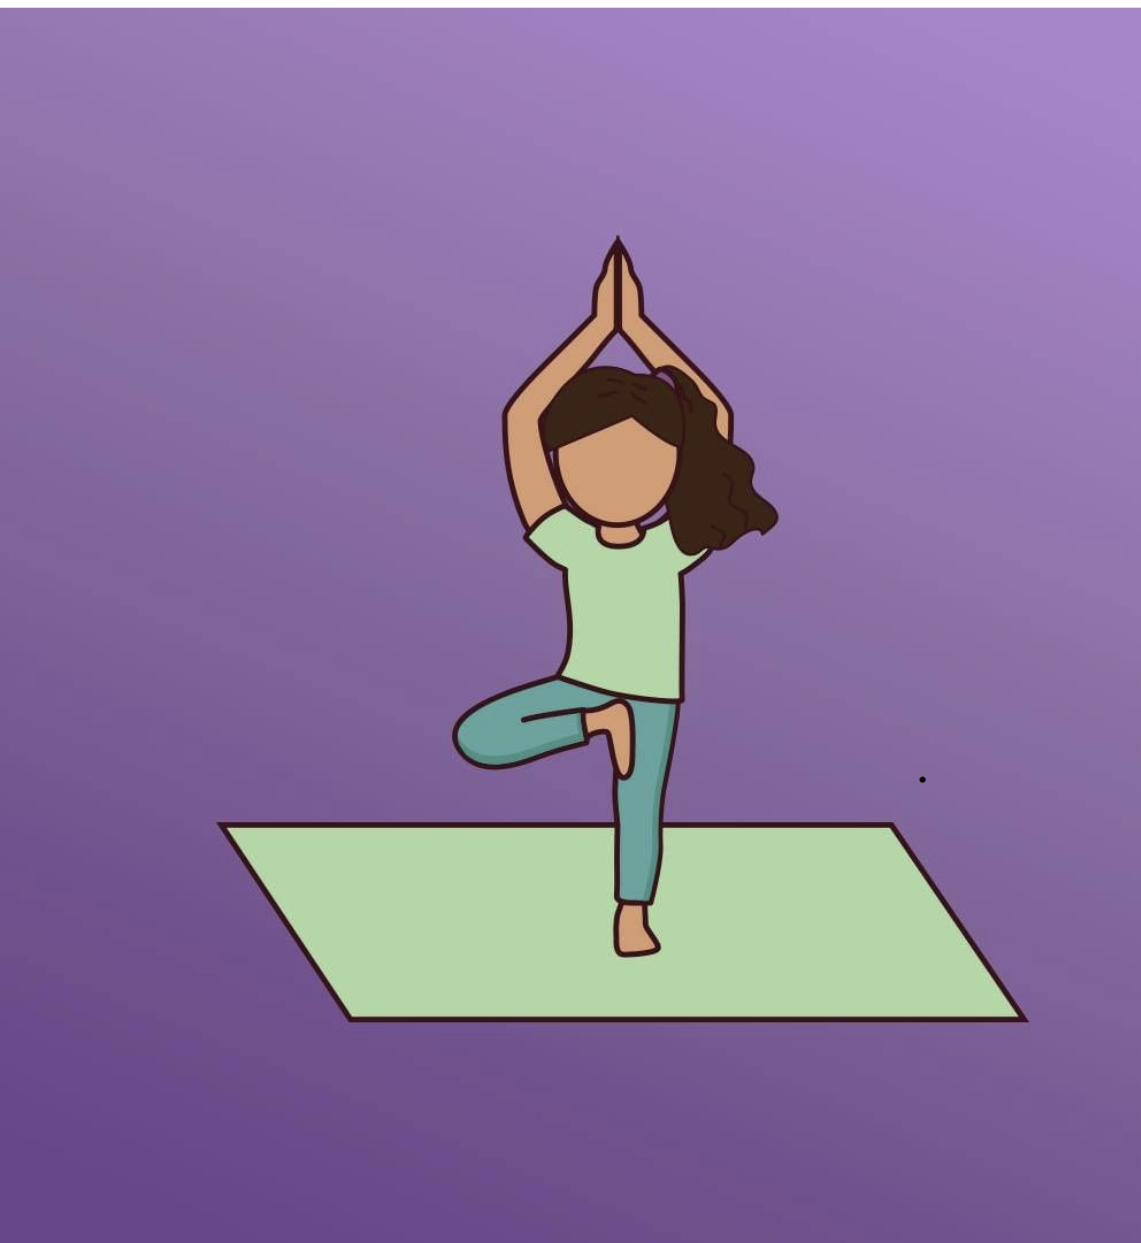
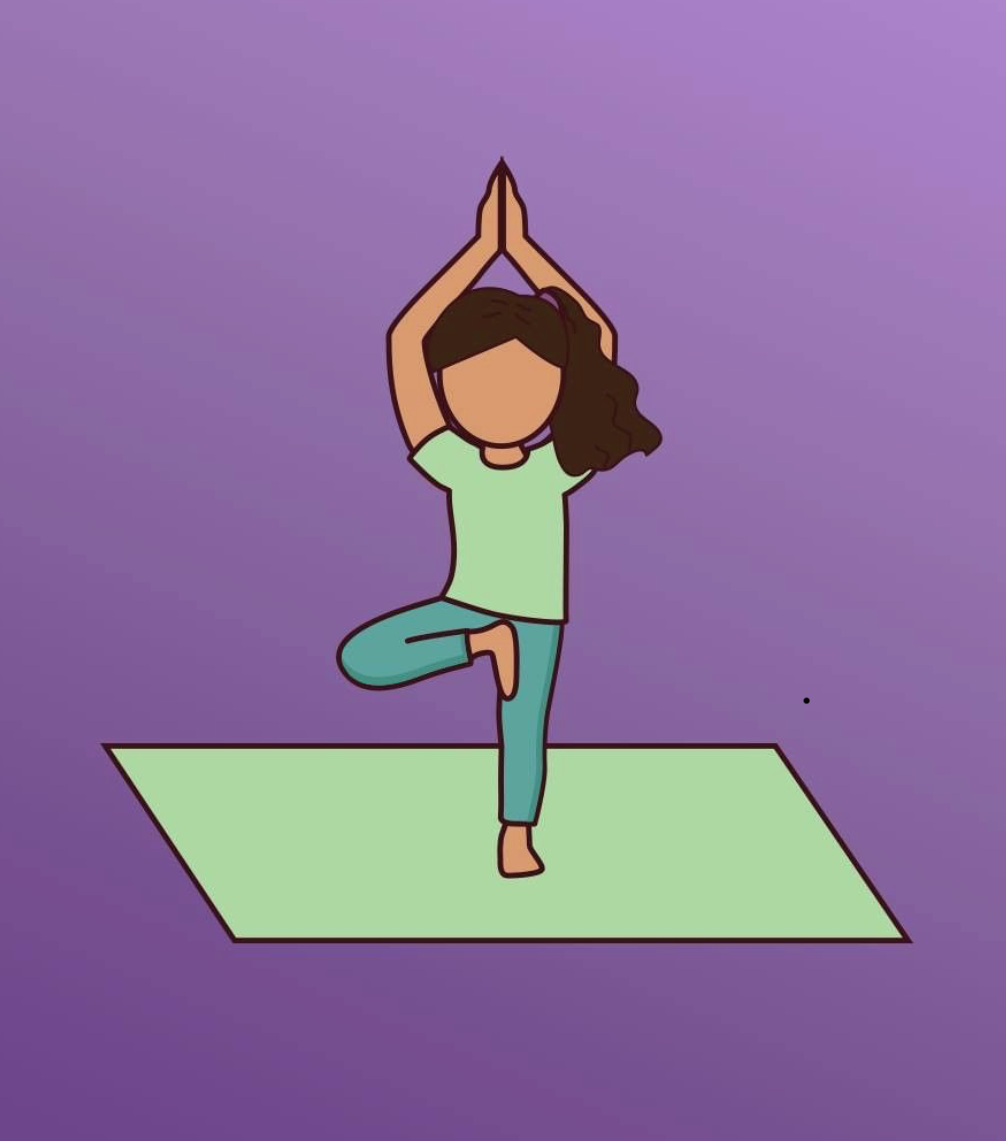
something

Changed region(s): [[0.0924, 0.1227, 0.9245, 0.8282], [0.0, 0.0, 1.0, 0.0307]]

diff --git a/humans-helping-humans/src/About.js b/humans-helping-humans/src/About.js
@@ -5,20 +5,25 @@ function About() {
     return (
         <div>
             <h3> About Humans Helping Humans </h3>
-                <img className="picture" src={require('./assets/PNG image.png')} alt=' light brown girl doing tree pose'/> 
-                <div>This app is a combination of inspirations. First, the endless impact teachers, mentors, and friends have on our lives and the collective good we enjoy from those lessons learned. Second, the amazing resource of scientific data, distilled by neurobiologist and optimologist Dr. Andrew Huberman. His free of cost podcast/youtube channel distills meaning and actionable ideas for optimizing health. On this site, visit the resource tab to learn about the scientific beenfits of gratitiude, and to dispell the myths of gratitude. On the Stories tab, hear how others have been impacted by their teachers and mentors. The benefit of hearing and sharing the narrative of humans helping humans is undeniedable!
-
-                <div className='story'>
-                <p>While here: </p>
-                <ul>
-                <li>Click on the {<a href="/resources">Resources</a>} tab to watch Dr. Huberman lecture on the science of gratitude.</li>
-                <li>Click on the {<a href="/storieslist">Stories List</a>} tab to read stories about inspiring teachers, and boost your serontonin as a result.</li>
-                <li>Click to learn a random fact about gratitude on the {<a href="/resources">Resources</a>} tab.</li>
-                <li>Click on the {<a href="https://www.youtube.com/watch?v=dQw4w9WgXcQ" alt='rick'>Stories List</a>} tab to share your own inspirational story of being helped, and boost someone's serotonin.</li>
-                <li>And remember, when you need a brain boost, think of these stories to improve your mood and sense of contentment.</li>
-                </ul>
+                <div>
+                    <div>
+                        <div>
+                            <div className='makeSpace'>This app is a combination of inspirations. First, the endless impact teachers, mentors, and friends have on our lives and the collective good we enjoy from those lessons learned. Second, the amazing resource of scientific data, distilled by neurobiologist and optimologist Dr. Andrew Huberman. His free of cost podcast/youtube channel distills meaning and actionable ideas for optimizing health. On this site, visit the resource tab to learn about the scientific beenfits of gratitiude, and to dispell the myths of gratitude. On the Stories tab, hear how others have been impacted by their teachers and mentors. The benefit of hearing and sharing the narrative of humans helping humans is undeniedable!</div>    
+                            <img className="picture" src={require('./assets/PNG image.png')} alt=' light brown girl doing tree pose'/>
+                            <div></div>
+                        </div>
+                        <div className='story makeSpace'>
+                            <p>While here: </p>
+                            <ul className='listLeft'>
+                            <li>Click on the {<a href="/resources">Resources</a>} tab to watch Dr. Huberman lecture on the science of gratitude.</li>
+                            <li>Click on the {<a href="/storieslist">Stories List</a>} tab to read stories about inspiring teachers, and boost your serontonin as a result.</li>
+                            <li>Click to learn a random fact about gratitude on the {<a href="/resources">Resources</a>} tab.</li>
+                            <li>Click on the {<a href="https://www.youtube.com/watch?v=dQw4w9WgXcQ" alt='rick'>Stories List</a>} tab to share your own inspirational story of being helped, and boost someone's serotonin.</li>
+                            <li>And remember, when you need a brain boost, think of these stories to improve your mood and sense of contentment.</li>
+                            </ul>
+                        </div>
+                    </div>
                 </div>
-            </div>
         </div>
     )
 }

diff --git a/humans-helping-humans/src/Resources.js b/humans-helping-humans/src/Resources.js
@@ -21,7 +21,6 @@ function Resources(){
         fetch("http://localhost:6001/facts")
         .then(r => r.json())
         .then(setFacts)
-        // .then(setRando(randomFact))
     }, [])
 
     function getIndex(min, max) {
@@ -37,7 +36,6 @@ function Resources(){
     }
     
     console.log('all facts', facts)
-    // console.log('a random fact', randomFact.gratitude_fact)
     console.log('rando state', rando.gratitude_fact)
 
 
@@ -56,8 +54,8 @@ function Resources(){
                     <a href="https://www.frontiersin.org/articles/10.3389/fpsyg.2015.01491/full"> - Neural correlates of gratitude</a>
                     </div>
                 </div>
-                    <div className='story makeSpace'>
-                    <div onClick={aFact}> 🧠 <u>Click me For a Scienceterrific Fact about Gratitude!</u> 🤯 </div>
+                    <div className='story makeSpaceBottom'>
+                    <div onClick={aFact}> 🧠 <u>Click me For a Scienterrific Fact about Gratitude!</u> 🤯 </div>
                     <p>{rando.gratitude_fact}</p>
                     </div>
             </div>

diff --git a/humans-helping-humans/src/App.css b/humans-helping-humans/src/App.css
@@ -55,7 +55,16 @@ body {
 }
 
 .picture {
-  border: 10px solid black;
+  border: 10px solid rgb(49, 68, 97);
+  border-radius: 12px;
+  text-align: center;
+  margin: auto;
+  height: 500px;
+  width: auto;
+}
+
+.picture2 {
+  border: 10px solid rgb(22, 31, 44);
   border-radius: 12px;
   text-align: center;
   margin: auto;
@@ -80,6 +89,11 @@ body {
   padding: 10px
 }
 
+.makeSpaceBottom {
+  padding-bottom: 10px;
+  padding-top: 10px;
+}
+
 .floatLeft {
   float: left;
   padding-left: 100px;
@@ -90,19 +104,10 @@ body {
   padding-right: 100px;
 }
 
-/* .horizontal-scroll{
-  width: 100px;
-  height: 300px;
-  overflow-y: auto;
-  overflow-x: hidden;
-  transform: rotate(-90deg);
-  transform-origin: right top;
-  transform:rotate(-90deg) translateY(-100px);
+.listLeft {
+  text-align: left;
 }
 
-.horizontal-scroll-wrapper {
-  width: 100px;
-  height: 100px;
-  transform: rotate(90deg);
-  transform-origin: right top;
-} */
+.filter {
+  filter : brightness(150%)
+}

diff --git a/humans-helping-humans/src/StoriesList.js b/humans-helping-humans/src/StoriesList.js
@@ -31,7 +31,6 @@ function StoriesList() {
                 console.log('Success:', data);
                 console.log(stories)
 
-                // setStories([...stories, story]);
                 getFetchStories();
 
             })
@@ -80,13 +79,6 @@ function StoriesList() {
         }
 
     }, [])
-
-    // function storyIndex(){
-
-    // for (i = stories.length; i > 0 ; i--) {
-    //     stories[i-1]
-    //     return <Story key={stories[i-1].name_of_person} story={stories[i-1]}/>
-    // }}
 
     const storyCard = stories.map(story => <Story
         key={story.name_of_person}

diff --git a/humans-helping-humans/src/Home.js b/humans-helping-humans/src/Home.js
@@ -11,7 +11,7 @@ function Home() {
                 src={require('./assets/brain.png')} alt='brain'/>
             <div>
             <h3>Welcome to an exercise in mindfulness and boost your mood!</h3>
-            <img className="picture" src="https://cdn.pixabay.com/photo/2017/03/26/21/54/yoga-2176668_960_720.jpg" alt='mindful' />
+            <img className="picture2 filter" src="https://cdn.pixabay.com/photo/2017/03/26/21/54/yoga-2176668_960_720.jpg" alt='mindful'/>
             </div>
         </div>
     )

diff --git a/humans-helping-humans/src/ResourceCard.js b/humans-helping-humans/src/ResourceCard.js
@@ -25,7 +25,6 @@ function ResourceCard({ resources, setResources }) {
             body: JSON.stringify(aComment),
         })
             .then(response => response.json())
-            // .then(setResources([aComment, ...resources]))
 
     }
 

diff --git a/humans-helping-humans/src/index.js b/humans-helping-humans/src/index.js
@@ -1,6 +1,5 @@
 import React from 'react';
 import ReactDOM from 'react-dom';
-// import './index.css';
 import App from './App';
 import {BrowserRouter} from 'react-router-dom'
 
